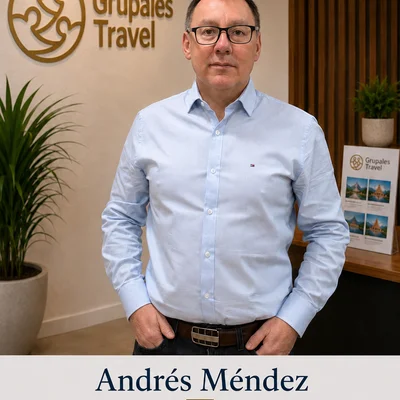
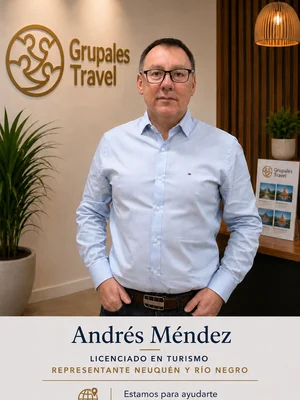
style: rediseñar equipo en formato rectangular 3:4, ajustar navbar sólido en subpáginas e incrementar legibilidad de fuentes

diff --git a/src/components/quienes-somos/TeamSection.tsx b/src/components/quienes-somos/TeamSection.tsx
@@ -126,10 +126,10 @@ export default function TeamSection() {
               whileInView={{ opacity: 1, y: 0 }}
               viewport={{ once: true }}
               transition={{ delay: i * 0.1, duration: 0.5 }}
-              className="bg-white border border-[#a66d03]/20 rounded-3xl p-8 shadow-xl flex flex-col md:flex-row gap-6 items-center text-center md:text-left hover:border-[#bf8b2a]/45 transition-all duration-300 group"
+              className="bg-white border border-[#a66d03]/15 rounded-3xl p-6 shadow-xl flex flex-col sm:flex-row gap-6 items-center text-center sm:text-left hover:border-[#bf8b2a]/45 transition-all duration-300 group"
             >
-              {/* Avatar con imagen o iniciales de fallback */}
-              <div className="w-24 h-24 rounded-full bg-[#FAF7F2] border border-[#a66d03]/30 flex items-center justify-center shrink-0 shadow-inner group-hover:scale-105 transition-transform duration-300 relative overflow-hidden">
+              {/* Imagen de perfil rectangular 3:4 */}
+              <div className="w-32 h-44 rounded-2xl bg-[#FAF7F2] border border-[#a66d03]/20 flex items-center justify-center shrink-0 shadow-md group-hover:scale-[1.02] transition-transform duration-300 relative overflow-hidden">
                 <img
                   src={getImagePath(director.name)}
                   alt={director.name}
@@ -141,23 +141,23 @@ export default function TeamSection() {
                 <span className="text-2xl font-black tracking-wider text-[#a66d03]">
                   {getInitials(director.name)}
                 </span>
-                <div className="absolute -bottom-1 -right-1 w-7 h-7 rounded-full bg-[#bf8b2a] flex items-center justify-center border-2 border-white z-20">
+                <div className="absolute bottom-2 right-2 w-7 h-7 rounded-full bg-[#bf8b2a] flex items-center justify-center border-2 border-white z-20 shadow-md">
                   <Award size={12} className="text-white" />
                 </div>
               </div>
 
               {/* Información */}
-              <div className="flex-1 space-y-2">
+              <div className="flex-1 space-y-2.5">
                 <h4 className="text-[#a66d03] text-xs font-bold uppercase tracking-widest">
                   {director.title}
                 </h4>
-                <h3 className="text-2xl font-bold text-[#1E1810] group-hover:text-[#a66d03] transition-colors duration-200">
+                <h3 className="text-2xl font-black text-[#1E1810] group-hover:text-[#a66d03] transition-colors duration-200 leading-tight">
                   {director.name}
                 </h3>
-                <p className="text-[#1E1810]/55 text-sm font-semibold uppercase tracking-wider">
+                <p className="text-[#1E1810]/60 text-sm font-semibold uppercase tracking-wider">
                   {director.role}
                 </p>
-                <p className="text-[#1E1810]/70 text-sm leading-relaxed pt-2 border-t border-[#1E1810]/5">
+                <p className="text-[#1E1810]/75 text-[15px] leading-relaxed pt-2 border-t border-[#1E1810]/5">
                   {director.description}
                 </p>
               </div>
@@ -193,7 +193,7 @@ export default function TeamSection() {
                       transition={{ delay: memberIndex * 0.05 + deptIndex * 0.05, duration: 0.4 }}
                       className="bg-white border border-[#1E1810]/5 rounded-2xl p-5 hover:border-[#a66d03]/25 shadow-sm transition-all duration-300 flex items-center gap-3.5 group"
                     >
-                      <div className="w-11 h-11 rounded-full bg-[#FAF7F2] border border-[#1E1810]/5 flex items-center justify-center shrink-0 shadow-inner transition-colors duration-300 overflow-hidden relative">
+                      <div className="w-14 h-18 rounded-xl bg-[#FAF7F2] border border-[#1E1810]/10 flex items-center justify-center shrink-0 shadow-inner transition-colors duration-300 overflow-hidden relative">
                         <img
                           src={getImagePath(member.name)}
                           alt={member.name}
@@ -204,11 +204,11 @@ export default function TeamSection() {
                         />
                         <User size={16} className="text-[#1E1810]/30" />
                       </div>
-                      <div className="overflow-hidden">
-                        <h4 className="text-sm font-bold text-[#1E1810] group-hover:text-[#a66d03] transition-colors duration-200 truncate">
+                      <div className="overflow-hidden space-y-0.5">
+                        <h4 className="text-base font-bold text-[#1E1810] group-hover:text-[#a66d03] transition-colors duration-200 truncate">
                           {member.name}
                         </h4>
-                        <p className="text-[#1E1810]/45 text-[11px] font-medium tracking-wide uppercase truncate">
+                        <p className="text-[#1E1810]/50 text-xs font-semibold tracking-wide uppercase truncate">
                           {member.role}
                         </p>
                       </div>

diff --git a/src/app/quienes-somos/page.tsx b/src/app/quienes-somos/page.tsx
@@ -151,11 +151,11 @@ export default function QuienesSomosPage() {
                 </AnimatedSection>
 
                 <AnimatedSection delay={0.15}>
-                  <p className="text-[#1E1810]/65 text-base leading-relaxed">
+                  <p className="text-[#1E1810]/75 text-[17px] leading-relaxed">
                     Grupales Travel nació con el propósito de ofrecer salidas grupales cuidadosamente diseñadas, 
                     combinando el asesoramiento personalizado con una operación profesional y un acompañamiento permanente.
                   </p>
-                  <p className="text-[#1E1810]/65 text-base leading-relaxed mt-4">
+                  <p className="text-[#1E1810]/75 text-[17px] leading-relaxed mt-4">
                     Con el paso de los años fuimos creciendo, incorporando nuevas oficinas, representantes en distintas 
                     ciudades y un equipo multidisciplinario que hoy nos permite brindar un servicio integral antes, 
                     durante y después de cada viaje.
@@ -184,7 +184,7 @@ export default function QuienesSomosPage() {
                         <h4 className="text-lg font-bold text-[#1E1810] group-hover:text-[#a66d03] transition-colors duration-200">
                           {item.title}
                         </h4>
-                        <p className="text-[#1E1810]/60 text-sm leading-relaxed max-w-lg">
+                        <p className="text-[#1E1810]/70 text-[15px] leading-relaxed max-w-lg">
                           {item.text}
                         </p>
                       </div>
@@ -209,7 +209,7 @@ export default function QuienesSomosPage() {
                 <h2 className="text-3xl md:text-5xl font-extrabold text-[#1E1810]">
                   Estamos cerca tuyo
                 </h2>
-                <p className="text-[#1E1810]/70 text-sm md:text-base">
+                <p className="text-[#1E1810]/75 text-base sm:text-lg max-w-xl mx-auto">
                   Acercate a cualquiera de nuestras sedes presenciales o coordiná una llamada virtual con nuestros representantes.
                 </p>
               </AnimatedSection>
@@ -250,7 +250,7 @@ export default function QuienesSomosPage() {
                 <h2 className="text-3xl md:text-5xl font-extrabold text-[#1E1810]">
                   Nuestro Equipo
                 </h2>
-                <p className="text-[#1E1810]/70 text-base leading-relaxed">
+                <p className="text-[#1E1810]/75 text-base sm:text-lg max-w-2xl mx-auto leading-relaxed">
                   Cada viaje es el resultado del trabajo coordinado de profesionales especializados en distintas áreas. 
                   Nuestro compromiso es acompañarte en cada etapa del proceso para que solo tengas que disfrutar la experiencia.
                 </p>

diff --git a/src/components/layout/Navbar.tsx b/src/components/layout/Navbar.tsx
@@ -3,6 +3,7 @@
 import { useState, useEffect } from "react";
 import Image from "next/image";
 import Link from "next/link";
+import { usePathname } from "next/navigation";
 import { motion, AnimatePresence } from "framer-motion";
 import { X, Menu } from "lucide-react";
 import { cn } from "@/lib/utils";
@@ -17,6 +18,8 @@ const NAV_LINKS = [
 ];
 
 export default function Navbar() {
+  const pathname = usePathname();
+  const isHome = pathname === "/";
   const [scrolled, setScrolled] = useState(false);
   const [mobileOpen, setMobileOpen] = useState(false);
   // 100vh fijo garantiza que la franja blanca no se asome por debajo al ocultar el nav nativo
@@ -109,7 +112,7 @@ export default function Navbar() {
         style={{ transform: "translateZ(0)", WebkitTransform: "translateZ(0)" }}
         className={cn(
           "fixed top-0 left-0 right-0 z-[100] transition-all duration-500",
-          scrolled
+          (scrolled || !isHome)
             ? "bg-[#1E1810]/95 backdrop-blur-md border-b border-[#a66d03]/30 py-2"
             : "bg-transparent py-3"
         )}
